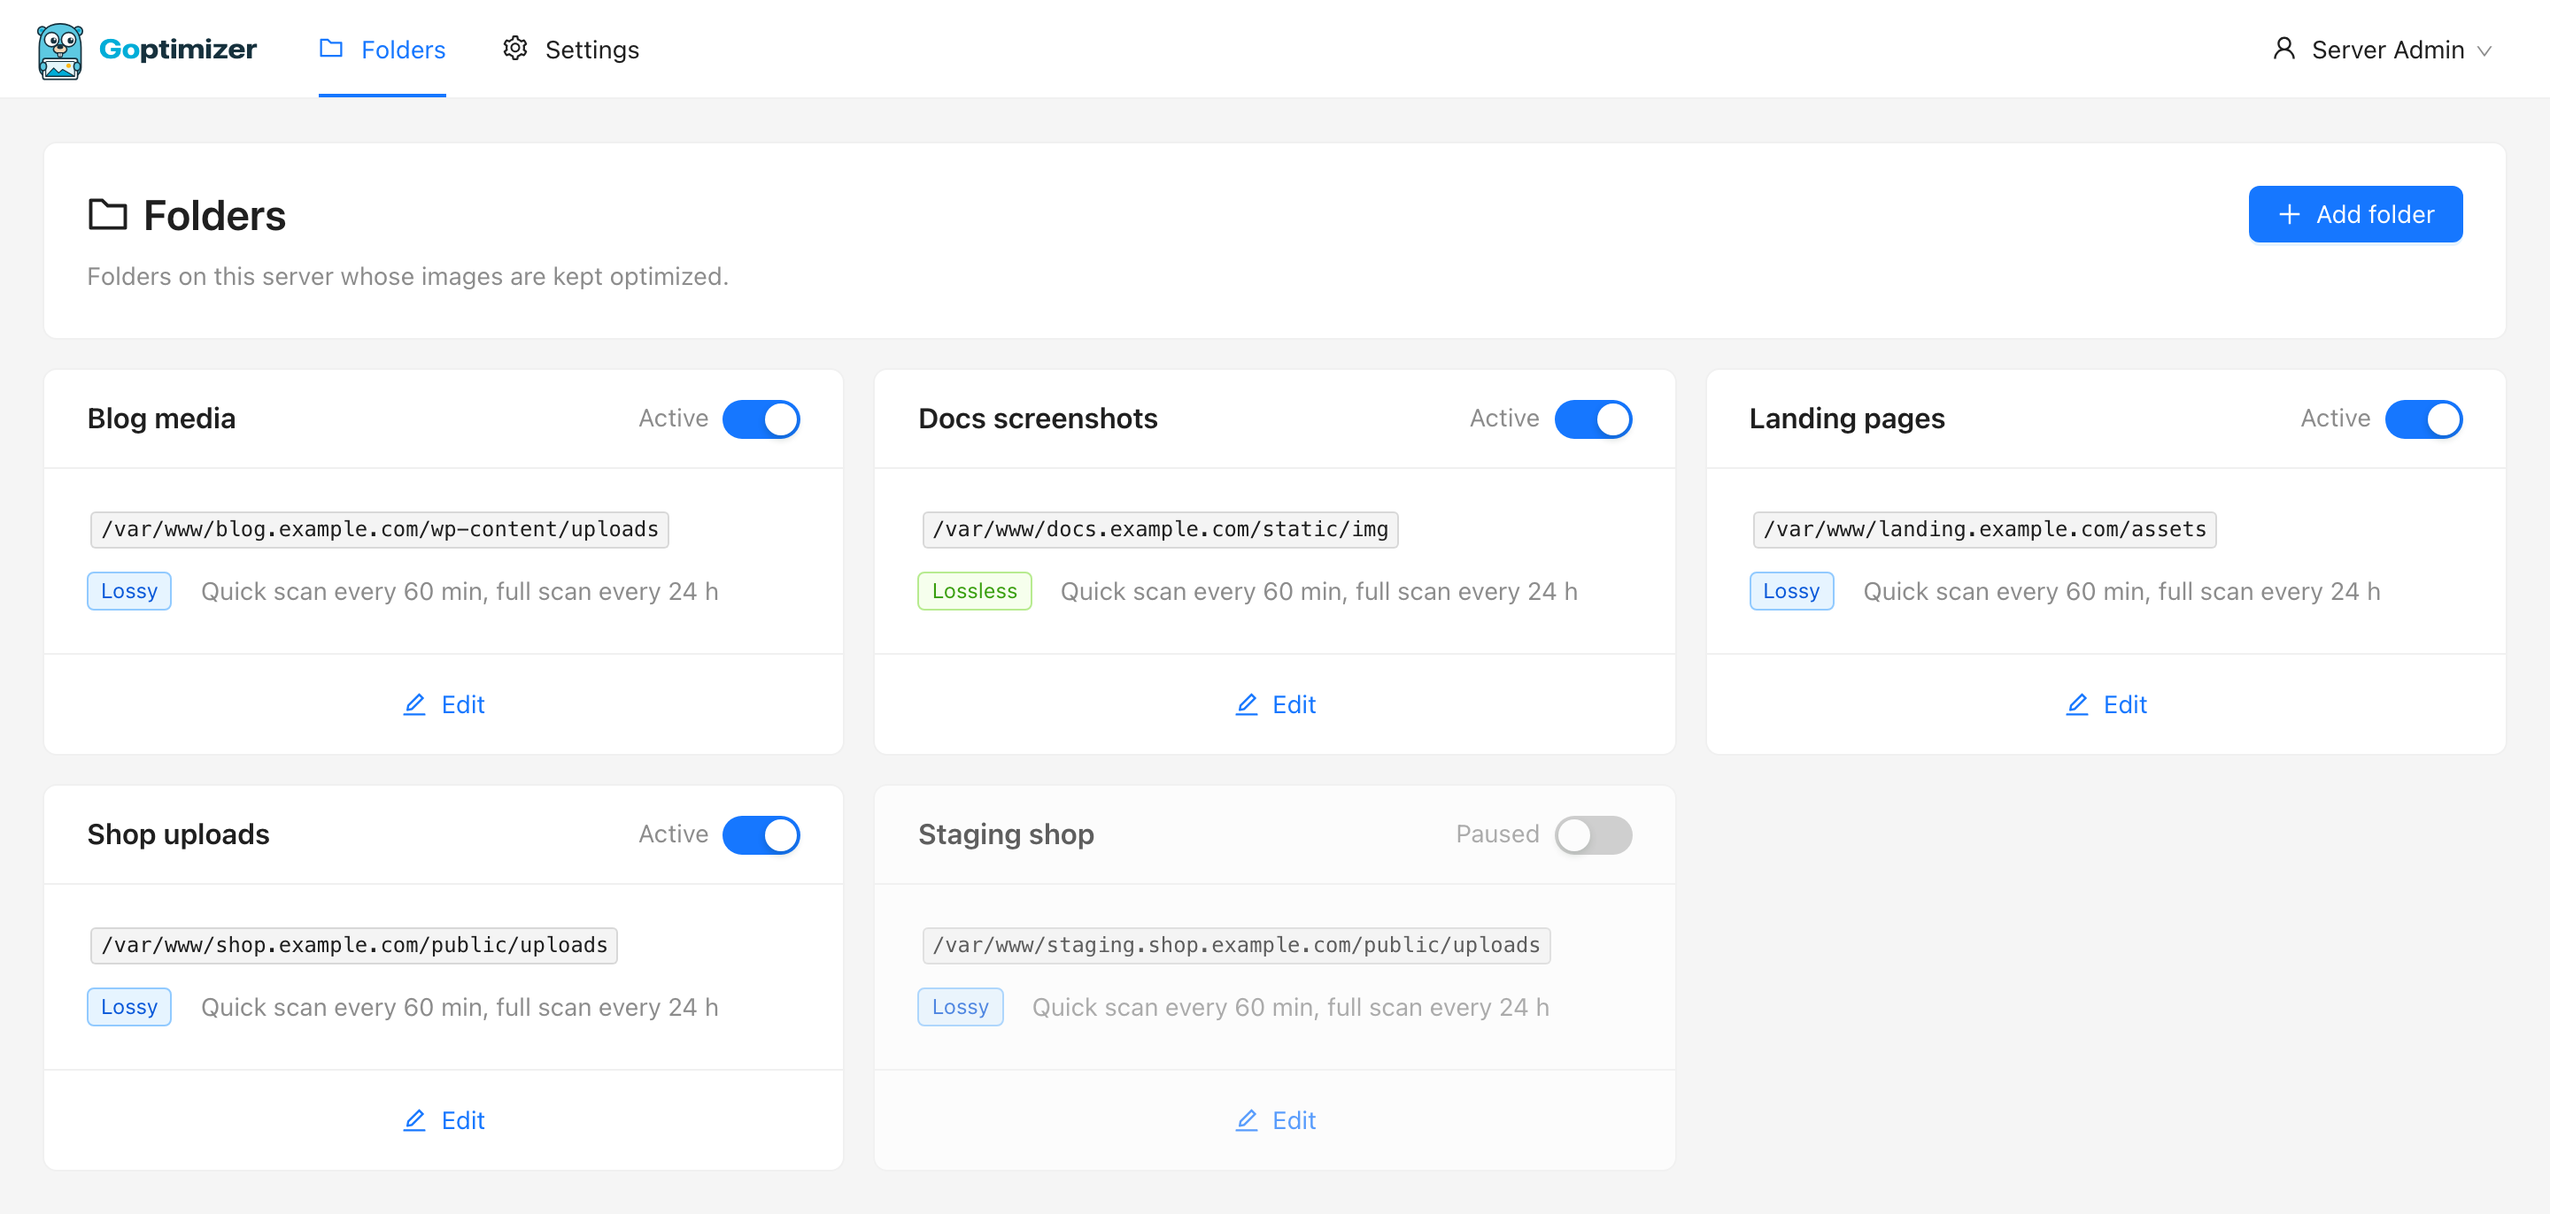
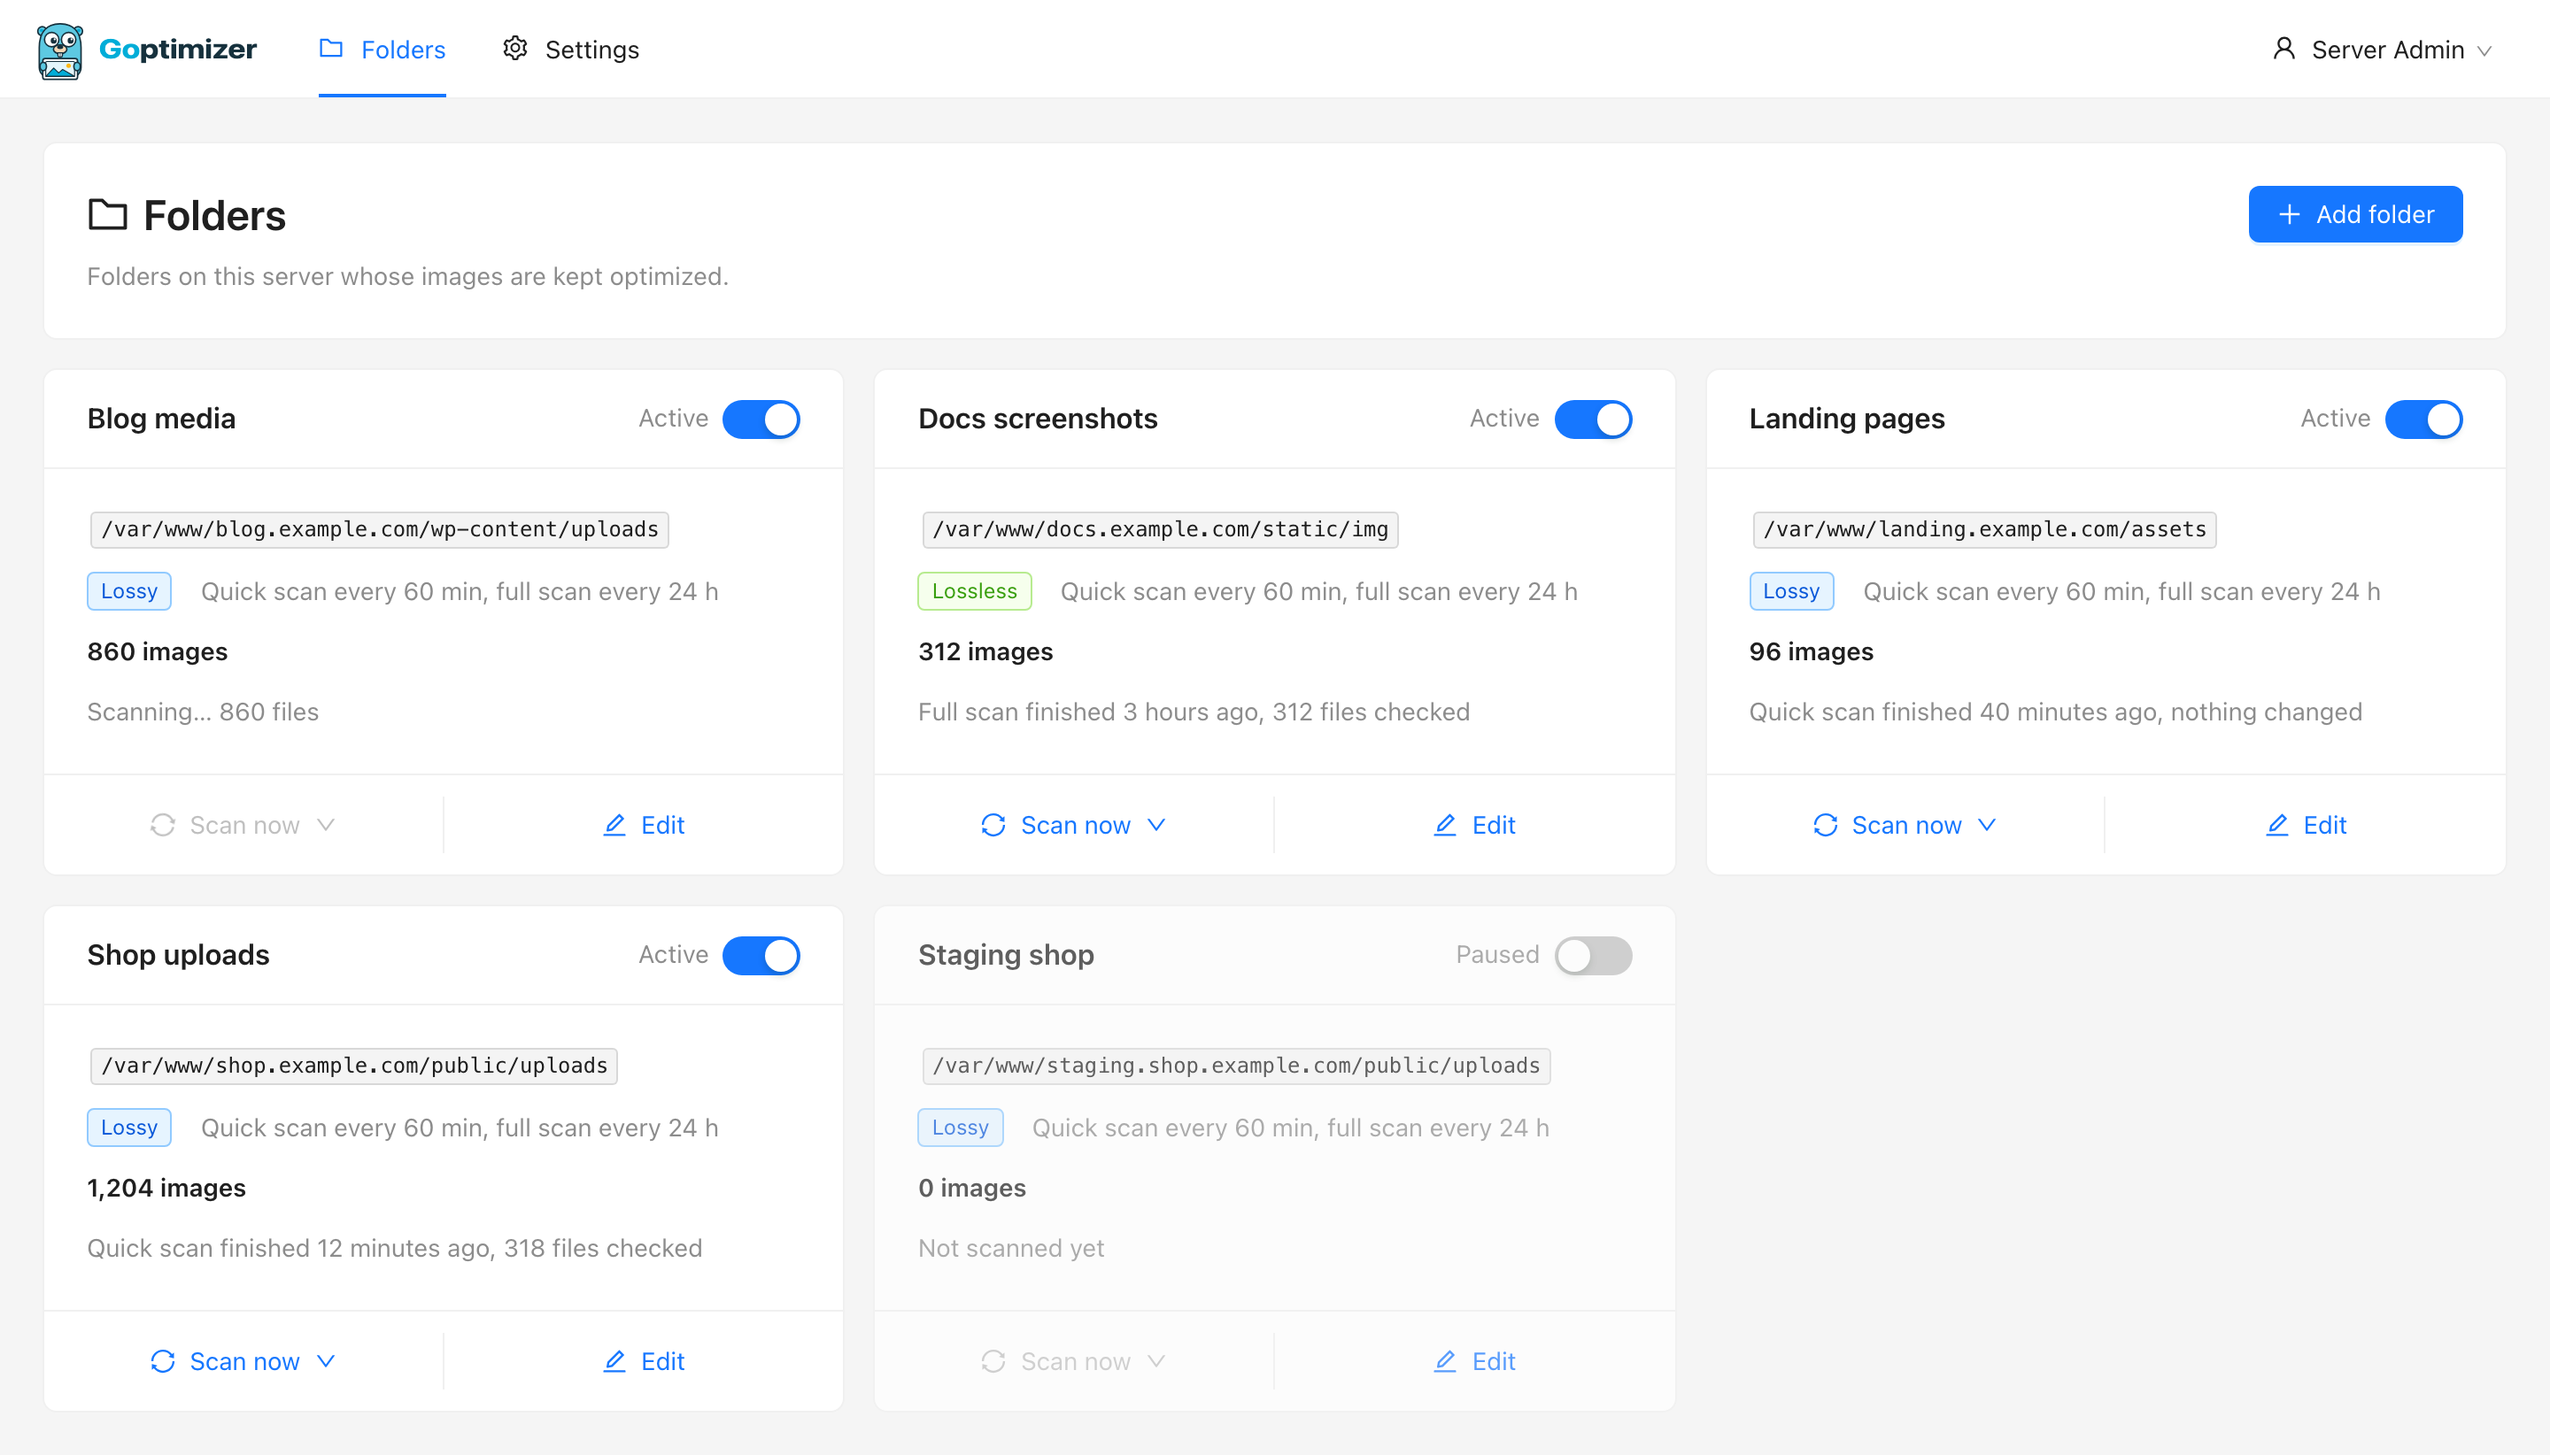
Seed scans and images for the README screenshots
The screenshot API runs no scheduler, so the seed now plants what the
cards show: a recent quick scan, one running, an older full scan, one
that found nothing changed, and the indexed image counts. The scan
factory takes the counts to make that possible. The two dashboard
screenshots are regenerated with the new card.

diff --git a/backend/cmd/screenshots-seed/main.go b/backend/cmd/screenshots-seed/main.go
@@ -1,15 +1,18 @@
 // Command screenshots-seed fills the throwaway database of scripts/screenshots/shoot.mjs with the
-// accounts and folders the README screenshots show. It writes through the factories, which do not
-// check that a folder's path exists, so the pictures can show /var/www paths this machine lacks.
+// accounts, folders, scans and images the README screenshots show. It writes through the
+// factories, which do not check that a folder's path exists, so the pictures can show /var/www
+// paths this machine lacks. The API there runs no scheduler, so no scan changes what is seeded.
 package main
 
 import (
 	"fmt"
 	"os"
+	"time"
 
 	"app/internal/db"
 	"app/internal/factory"
 	"app/internal/folders"
+	"app/internal/scans"
 )
 
 type reporter struct{}
@@ -39,9 +42,21 @@ func main() {
 	withCache := folders.DefaultProfile()
 	withCache.Excludes = []string{"cache/**", "*.thumb.png"}
 
-	create.Folder(factory.WithFolderName("Shop uploads"), factory.WithFolderPath("/var/www/shop.example.com/public/uploads"), factory.WithProfile(withCache))
-	create.Folder(factory.WithFolderName("Blog media"), factory.WithFolderPath("/var/www/blog.example.com/wp-content/uploads"))
-	create.Folder(factory.WithFolderName("Docs screenshots"), factory.WithFolderPath("/var/www/docs.example.com/static/img"), factory.WithProfile(lossless))
-	create.Folder(factory.WithFolderName("Landing pages"), factory.WithFolderPath("/var/www/landing.example.com/assets"))
+	shop := create.Folder(factory.WithFolderName("Shop uploads"), factory.WithFolderPath("/var/www/shop.example.com/public/uploads"), factory.WithProfile(withCache))
+	blog := create.Folder(factory.WithFolderName("Blog media"), factory.WithFolderPath("/var/www/blog.example.com/wp-content/uploads"))
+	docs := create.Folder(factory.WithFolderName("Docs screenshots"), factory.WithFolderPath("/var/www/docs.example.com/static/img"), factory.WithProfile(lossless))
+	landing := create.Folder(factory.WithFolderName("Landing pages"), factory.WithFolderPath("/var/www/landing.example.com/assets"))
 	create.Folder(factory.WithFolderName("Staging shop"), factory.WithFolderPath("/var/www/staging.shop.example.com/public/uploads"), factory.Paused())
+
+	now := time.Now()
+	full, succeeded := factory.WithScanKind(scans.KindFull), factory.WithScanStatus(scans.StatusSucceeded)
+	create.Scan(shop, succeeded, factory.StartedAt(now.Add(-12*time.Minute)), factory.WithScanCounts(scans.Counts{DirsListed: 4, FilesSeen: 318, FilesNew: 27}))
+	create.Scan(blog, full, factory.WithScanStatus(scans.StatusRunning), factory.StartedAt(now.Add(-time.Minute)), factory.WithScanCounts(scans.Counts{FilesSeen: 860, FilesNew: 860}))
+	create.Scan(docs, full, succeeded, factory.StartedAt(now.Add(-3*time.Hour)), factory.WithScanCounts(scans.Counts{FilesSeen: 312, FilesNew: 312}))
+	create.Scan(landing, succeeded, factory.StartedAt(now.Add(-40*time.Minute)))
+	for folder, n := range map[*db.Folder]int{shop: 1204, blog: 860, docs: 312, landing: 96} {
+		for range n {
+			create.Image(folder)
+		}
+	}
 }

diff --git a/backend/internal/db/factory.sql.go b/backend/internal/db/factory.sql.go
@@ -112,23 +112,33 @@ func (q *Queries) FactoryCreateImage(ctx context.Context, arg FactoryCreateImage
 }
 
 const factoryCreateScan = `-- name: FactoryCreateScan :one
-INSERT INTO scans (folder_id, kind, trigger, status, queued_at, started_at, finished_at, error)
+INSERT INTO scans (
+    folder_id, kind, trigger, status, queued_at, started_at, finished_at, error,
+    dirs_seen, dirs_listed, files_seen, files_new, files_changed, files_gone
+)
 VALUES (
     ?1, ?2, ?3, ?4,
-    ?5, ?6, ?7, ?8
+    ?5, ?6, ?7, ?8,
+    ?9, ?10, ?11, ?12, ?13, ?14
 )
 RETURNING id, folder_id, kind, "trigger", status, queued_at, started_at, finished_at, dirs_seen, dirs_listed, files_seen, files_new, files_changed, files_gone, error
 `
 
 type FactoryCreateScanParams struct {
-	FolderID   int64          `db:"folder_id" json:"folder_id"`
-	Kind       string         `db:"kind" json:"kind"`
-	Trigger    string         `db:"trigger" json:"trigger"`
-	Status     string         `db:"status" json:"status"`
-	QueuedAt   time.Time      `db:"queued_at" json:"queued_at"`
-	StartedAt  sql.NullTime   `db:"started_at" json:"started_at"`
-	FinishedAt sql.NullTime   `db:"finished_at" json:"finished_at"`
-	Error      sql.NullString `db:"error" json:"error"`
+	FolderID     int64          `db:"folder_id" json:"folder_id"`
+	Kind         string         `db:"kind" json:"kind"`
+	Trigger      string         `db:"trigger" json:"trigger"`
+	Status       string         `db:"status" json:"status"`
+	QueuedAt     time.Time      `db:"queued_at" json:"queued_at"`
+	StartedAt    sql.NullTime   `db:"started_at" json:"started_at"`
+	FinishedAt   sql.NullTime   `db:"finished_at" json:"finished_at"`
+	Error        sql.NullString `db:"error" json:"error"`
+	DirsSeen     int64          `db:"dirs_seen" json:"dirs_seen"`
+	DirsListed   int64          `db:"dirs_listed" json:"dirs_listed"`
+	FilesSeen    int64          `db:"files_seen" json:"files_seen"`
+	FilesNew     int64          `db:"files_new" json:"files_new"`
+	FilesChanged int64          `db:"files_changed" json:"files_changed"`
+	FilesGone    int64          `db:"files_gone" json:"files_gone"`
 }
 
 func (q *Queries) FactoryCreateScan(ctx context.Context, arg FactoryCreateScanParams) (Scan, error) {
@@ -141,6 +151,12 @@ func (q *Queries) FactoryCreateScan(ctx context.Context, arg FactoryCreateScanPa
 		arg.StartedAt,
 		arg.FinishedAt,
 		arg.Error,
+		arg.DirsSeen,
+		arg.DirsListed,
+		arg.FilesSeen,
+		arg.FilesNew,
+		arg.FilesChanged,
+		arg.FilesGone,
 	)
 	var i Scan
 	err := row.Scan(

diff --git a/backend/internal/factory/scan.go b/backend/internal/factory/scan.go
@@ -13,6 +13,7 @@ type scanAttrs struct {
 	status    scans.Status
 	startedAt time.Time
 	err       string
+	counts    scans.Counts
 }
 
 type ScanOption func(*scanAttrs)
@@ -28,6 +29,8 @@ func WithScanStatus(status scans.Status) ScanOption {
 func StartedAt(at time.Time) ScanOption { return func(a *scanAttrs) { a.startedAt = at } }
 
 func WithScanError(message string) ScanOption { return func(a *scanAttrs) { a.err = message } }
+
+func WithScanCounts(counts scans.Counts) ScanOption { return func(a *scanAttrs) { a.counts = counts } }
 
 // Scan creates a queued quick scan of the folder, triggered by the schedule.
 func (f *Factory) Scan(folder *db.Folder, opts ...ScanOption) *db.Scan {
@@ -45,6 +48,13 @@ func (f *Factory) Scan(folder *db.Folder, opts ...ScanOption) *db.Scan {
 		Status:   string(attrs.status),
 		QueuedAt: attrs.startedAt.UTC(),
 		Error:    sql.NullString{String: attrs.err, Valid: attrs.err != ""},
+
+		DirsSeen:     attrs.counts.DirsSeen,
+		DirsListed:   attrs.counts.DirsListed,
+		FilesSeen:    attrs.counts.FilesSeen,
+		FilesNew:     attrs.counts.FilesNew,
+		FilesChanged: attrs.counts.FilesChanged,
+		FilesGone:    attrs.counts.FilesGone,
 	}
 	if attrs.status != scans.StatusQueued {
 		params.StartedAt = sql.NullTime{Time: attrs.startedAt.UTC(), Valid: true}
